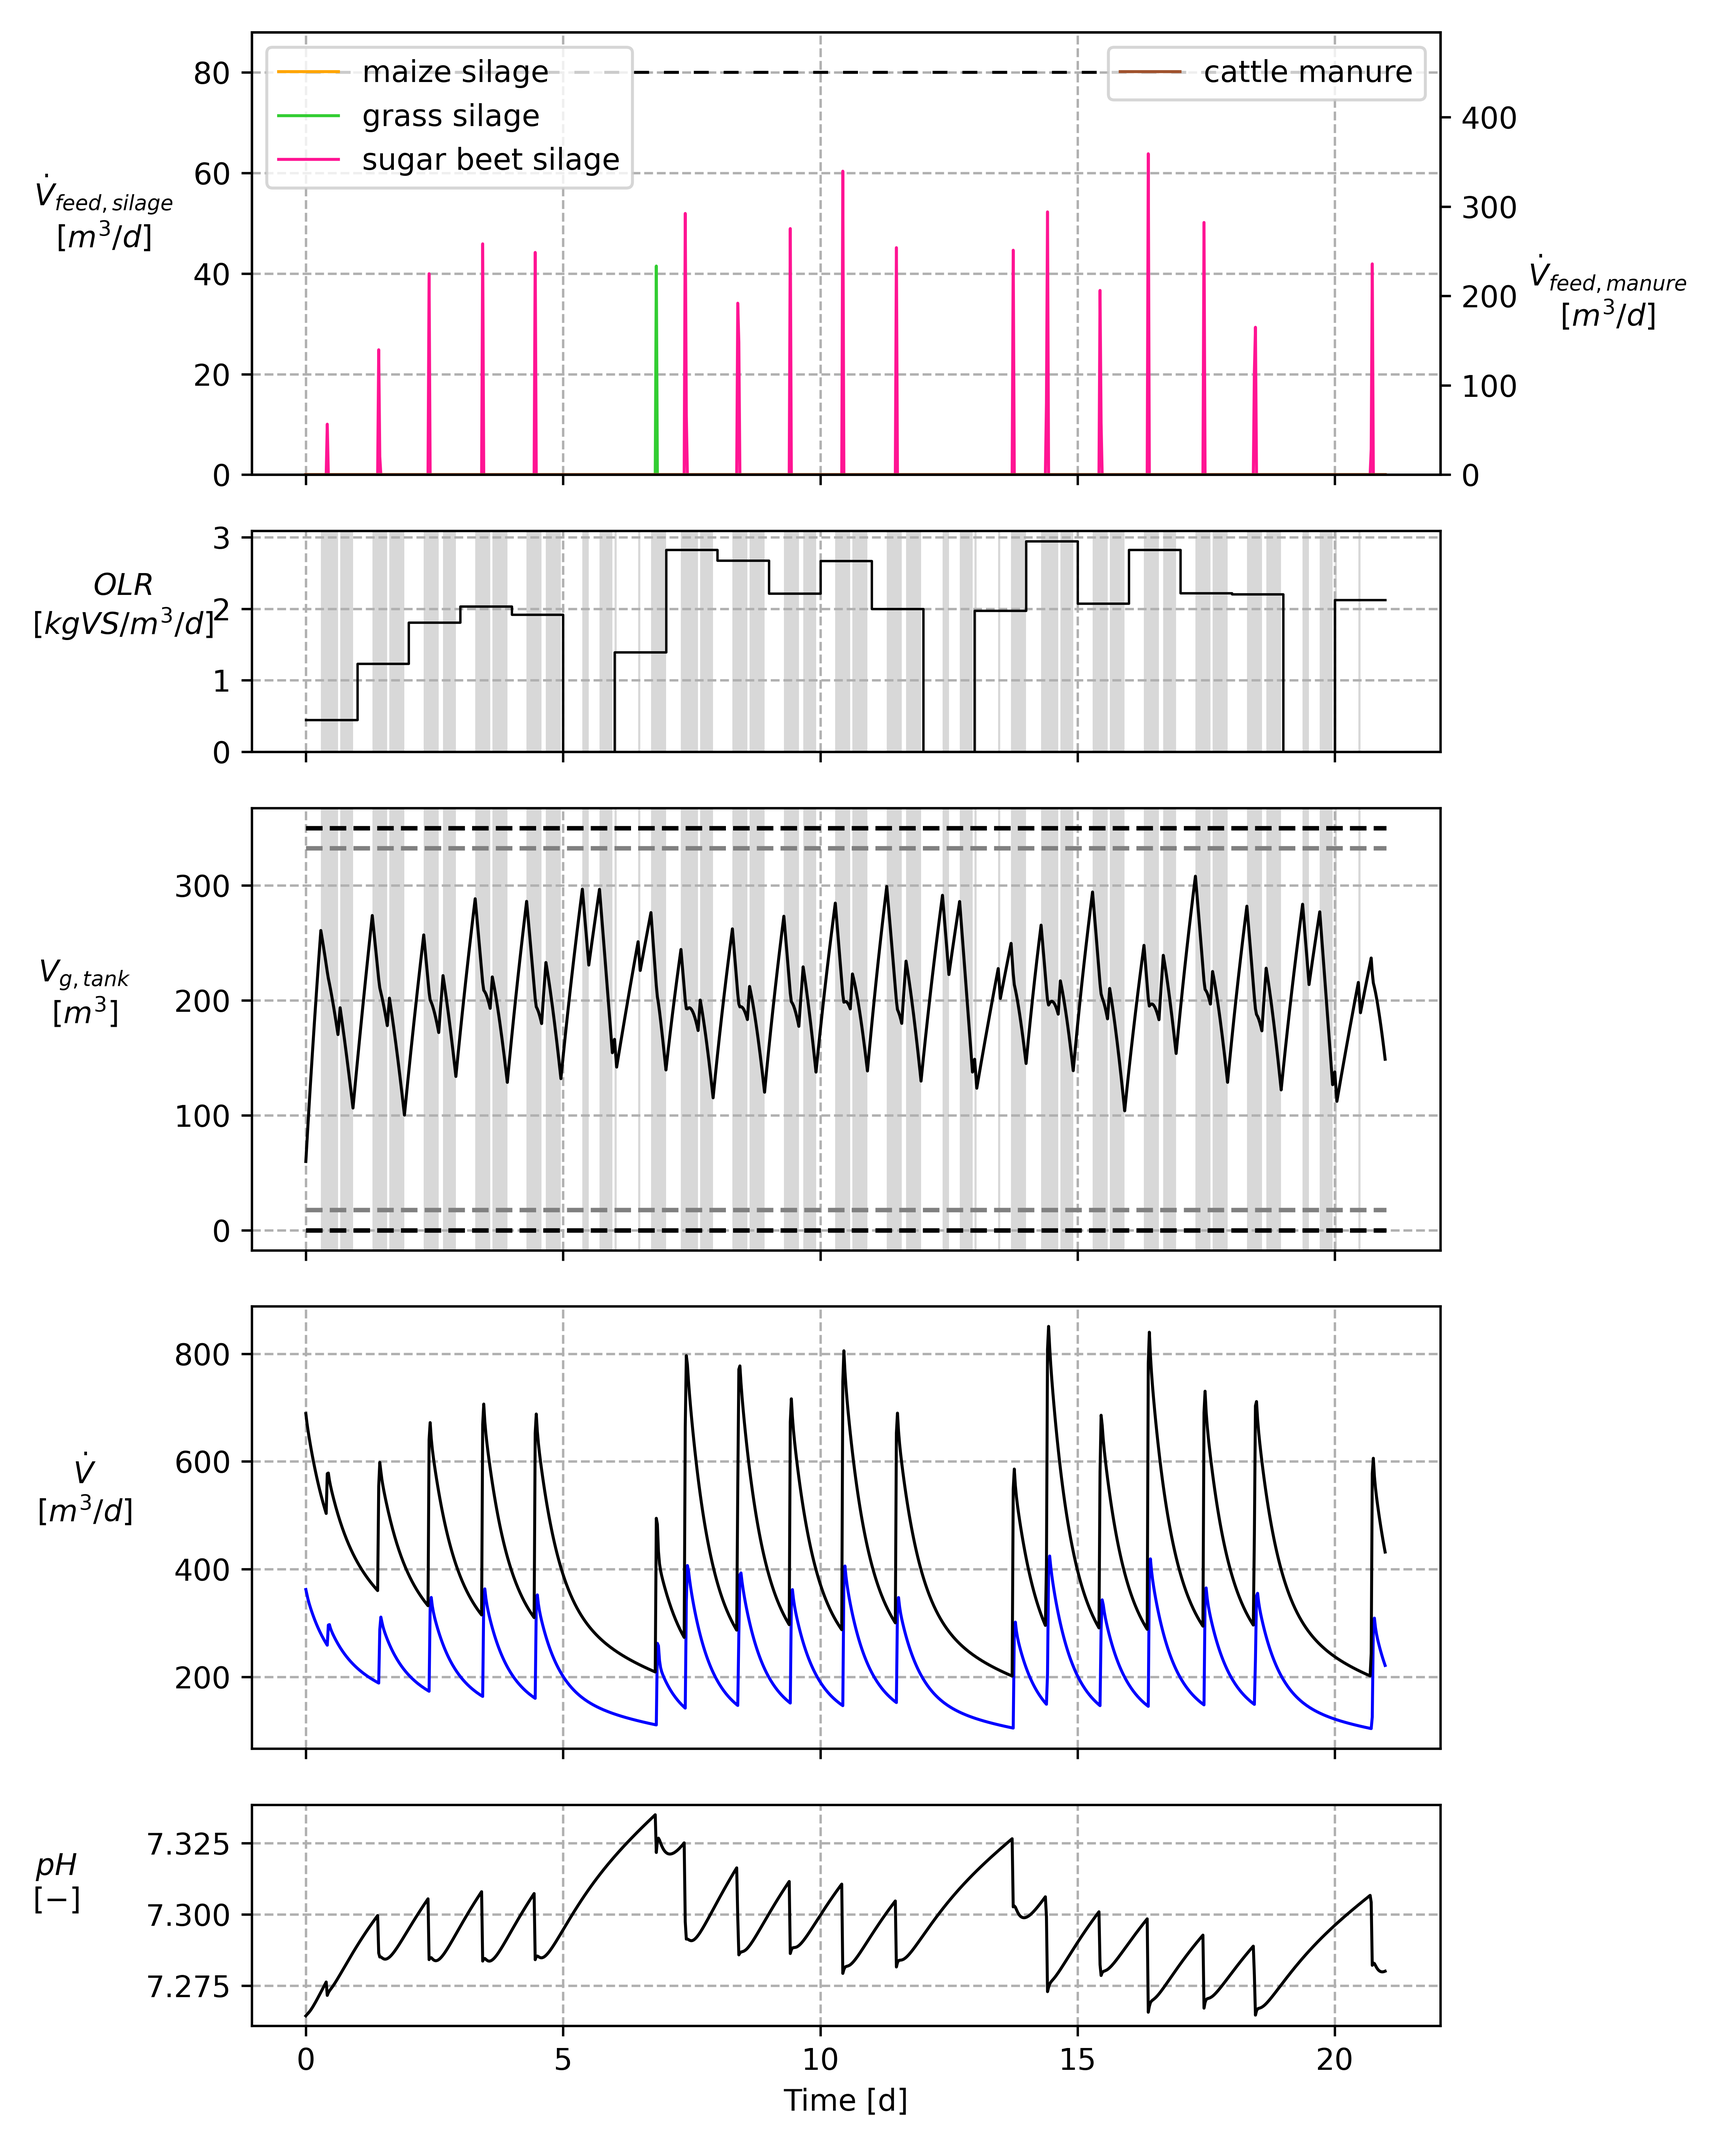
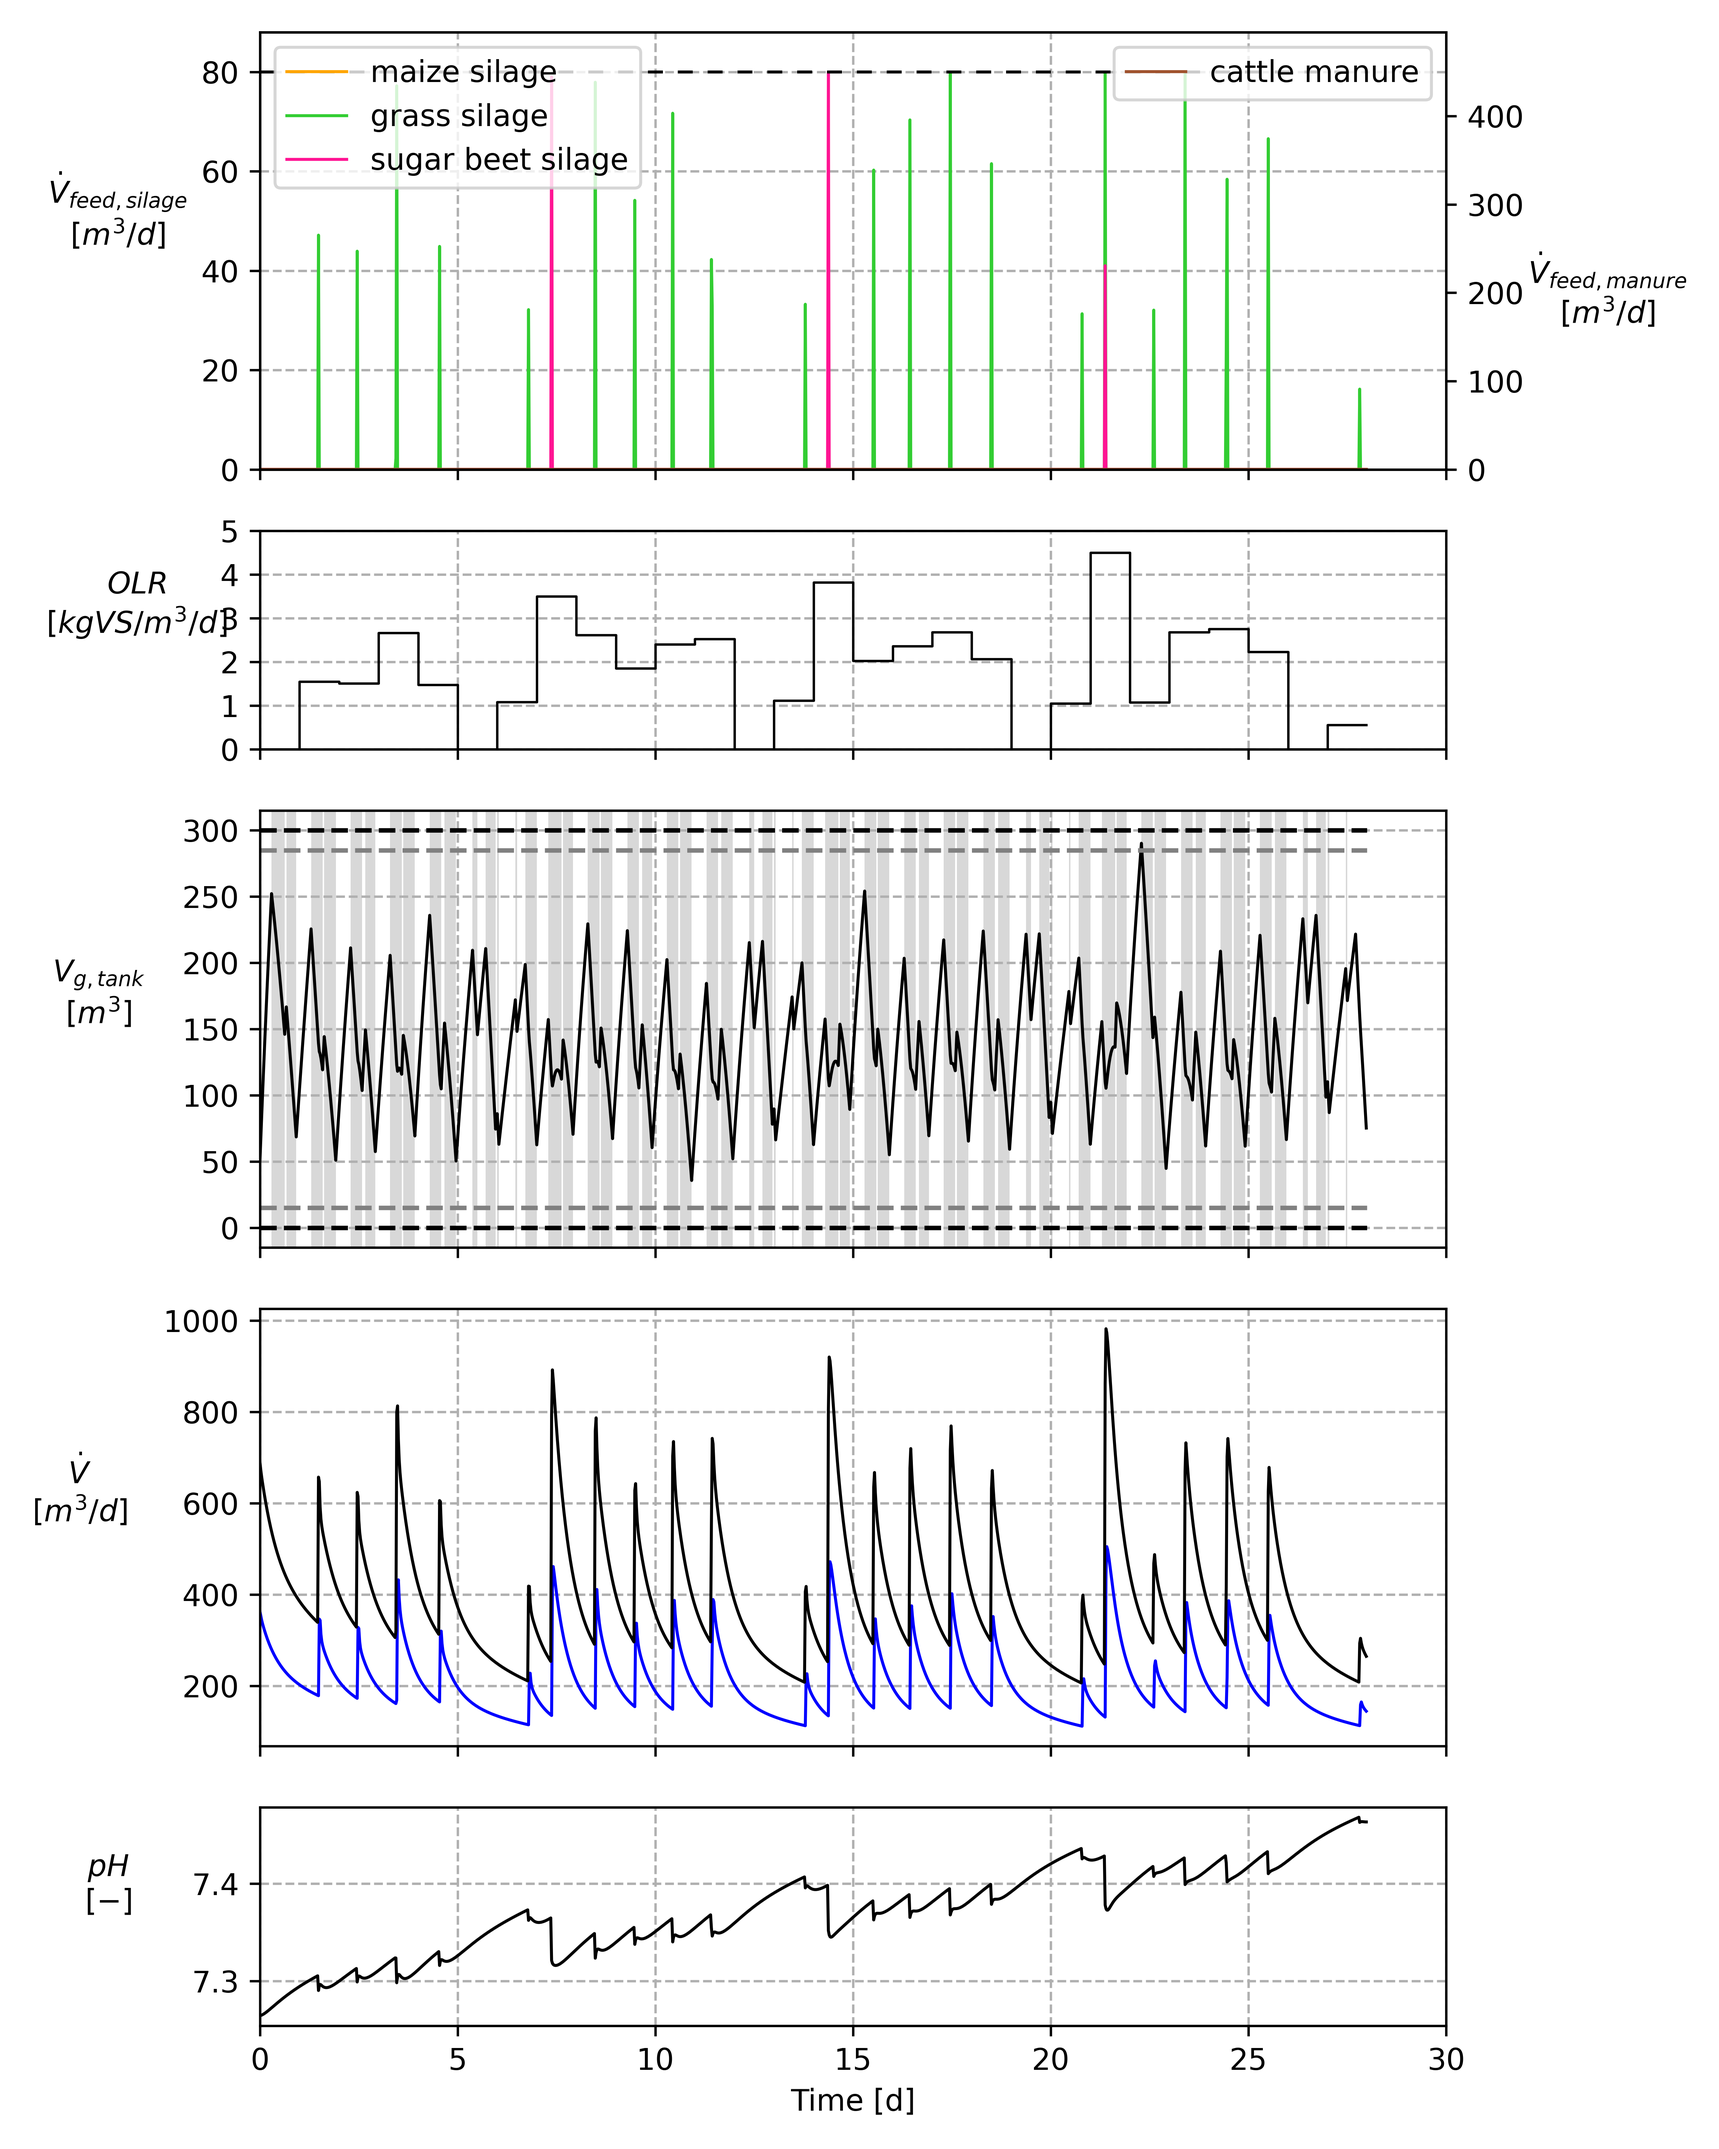
update Scenarios 2a and 2c

diff --git a/ad_meal_prep_control/scenarios/scenario_2a_nominal.py b/ad_meal_prep_control/scenarios/scenario_2a_nominal.py
@@ -10,13 +10,13 @@ from ad_meal_prep_control.params_R3 import P_el_chp
 import numpy as np
 
 # user input:
-n_days_mpc = 21  # length of simulation [d]
+n_days_mpc = 28  # length of simulation [d]
 n_std_dev = 2  # number std deviations
 t_step = 0.5 / 24.0
 t_stp_ahead_pred = 8  # for controller plotting
 
-fill_level_setpoint = 0.5
-c_1 = 1e2
+fill_level_setpoint = 0.35
+c_1 = 1e3
 lterm = (f"{c_1} * (model.aux['v_gas_storage']/V_GAS_STORAGE_MAX - {fill_level_setpoint})**2"
          )
 

diff --git a/ad_meal_prep_control/plot_generation/plot_scenario_2a.py b/ad_meal_prep_control/plot_generation/plot_scenario_2a.py
@@ -277,7 +277,7 @@ for scenario_name, plot_save_name in zip(scenario_names, plot_save_names):
             dpi=dpi,
             show_plot=show_plot,
             height_ratios=[2, 1, 2, 2, 1],
-            color_background_indices=(1,2),
+            color_background_indices=(2,),
             plot_olr=True,
         )
 #controller_plotting_2a(scenario_names)

diff --git a/ad_meal_prep_control/params_R3.py b/ad_meal_prep_control/params_R3.py
@@ -47,4 +47,4 @@ p_norm = p0  # [bar]
 T_norm = 273.15  # [K]
 T_gas_storage = 323.15  # [K]
 P_el_chp = 50.0  # kW
-V_GAS_STORAGE_MAX = 350  # m3
+V_GAS_STORAGE_MAX = 300  # m3
